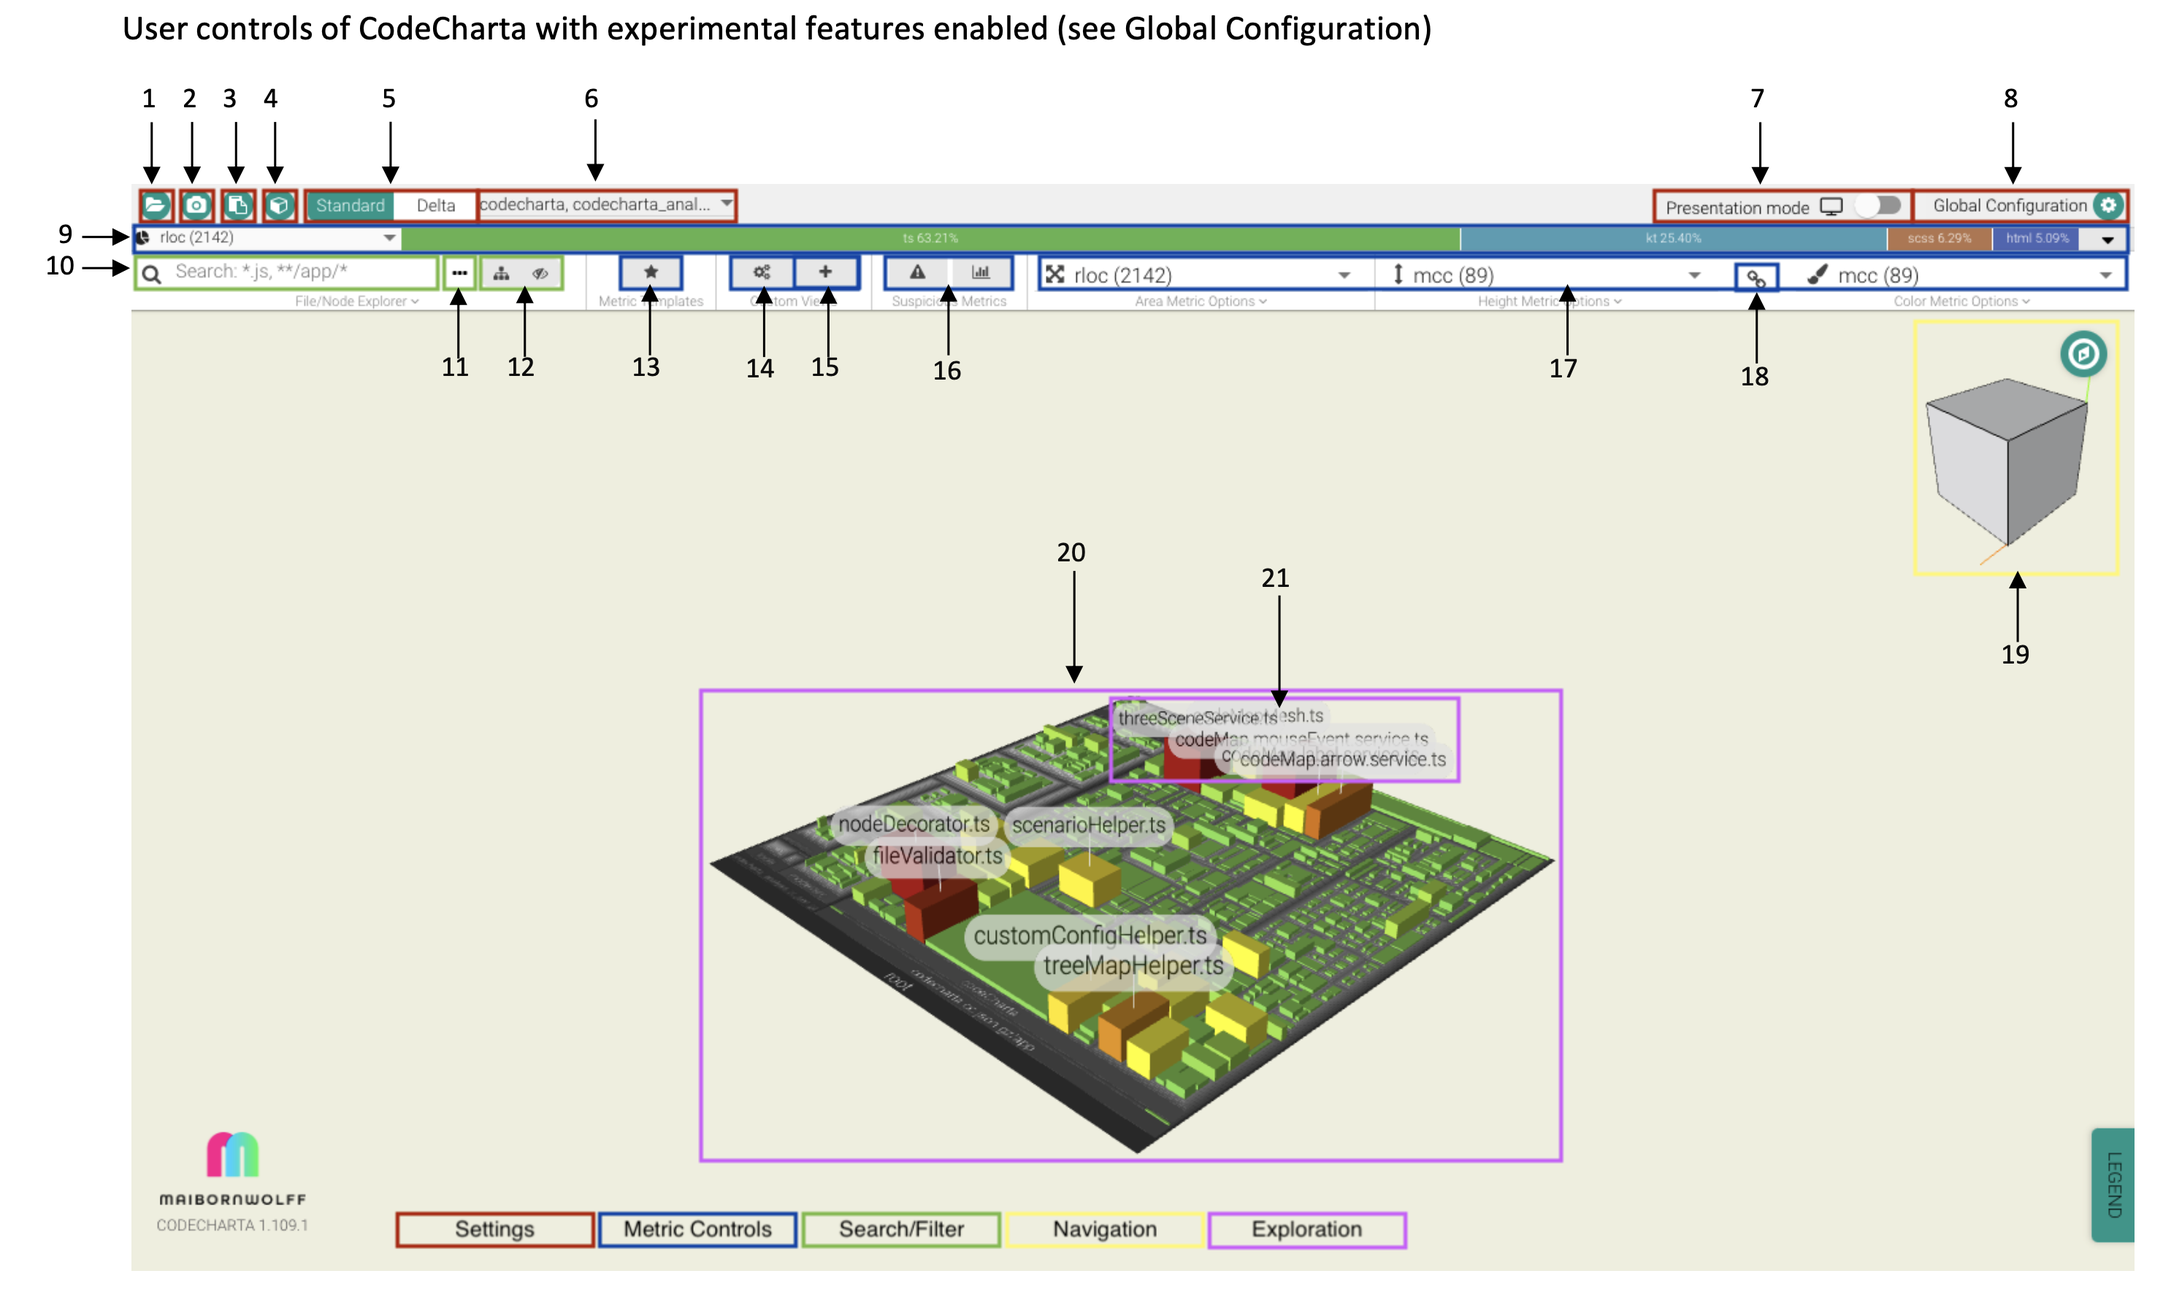
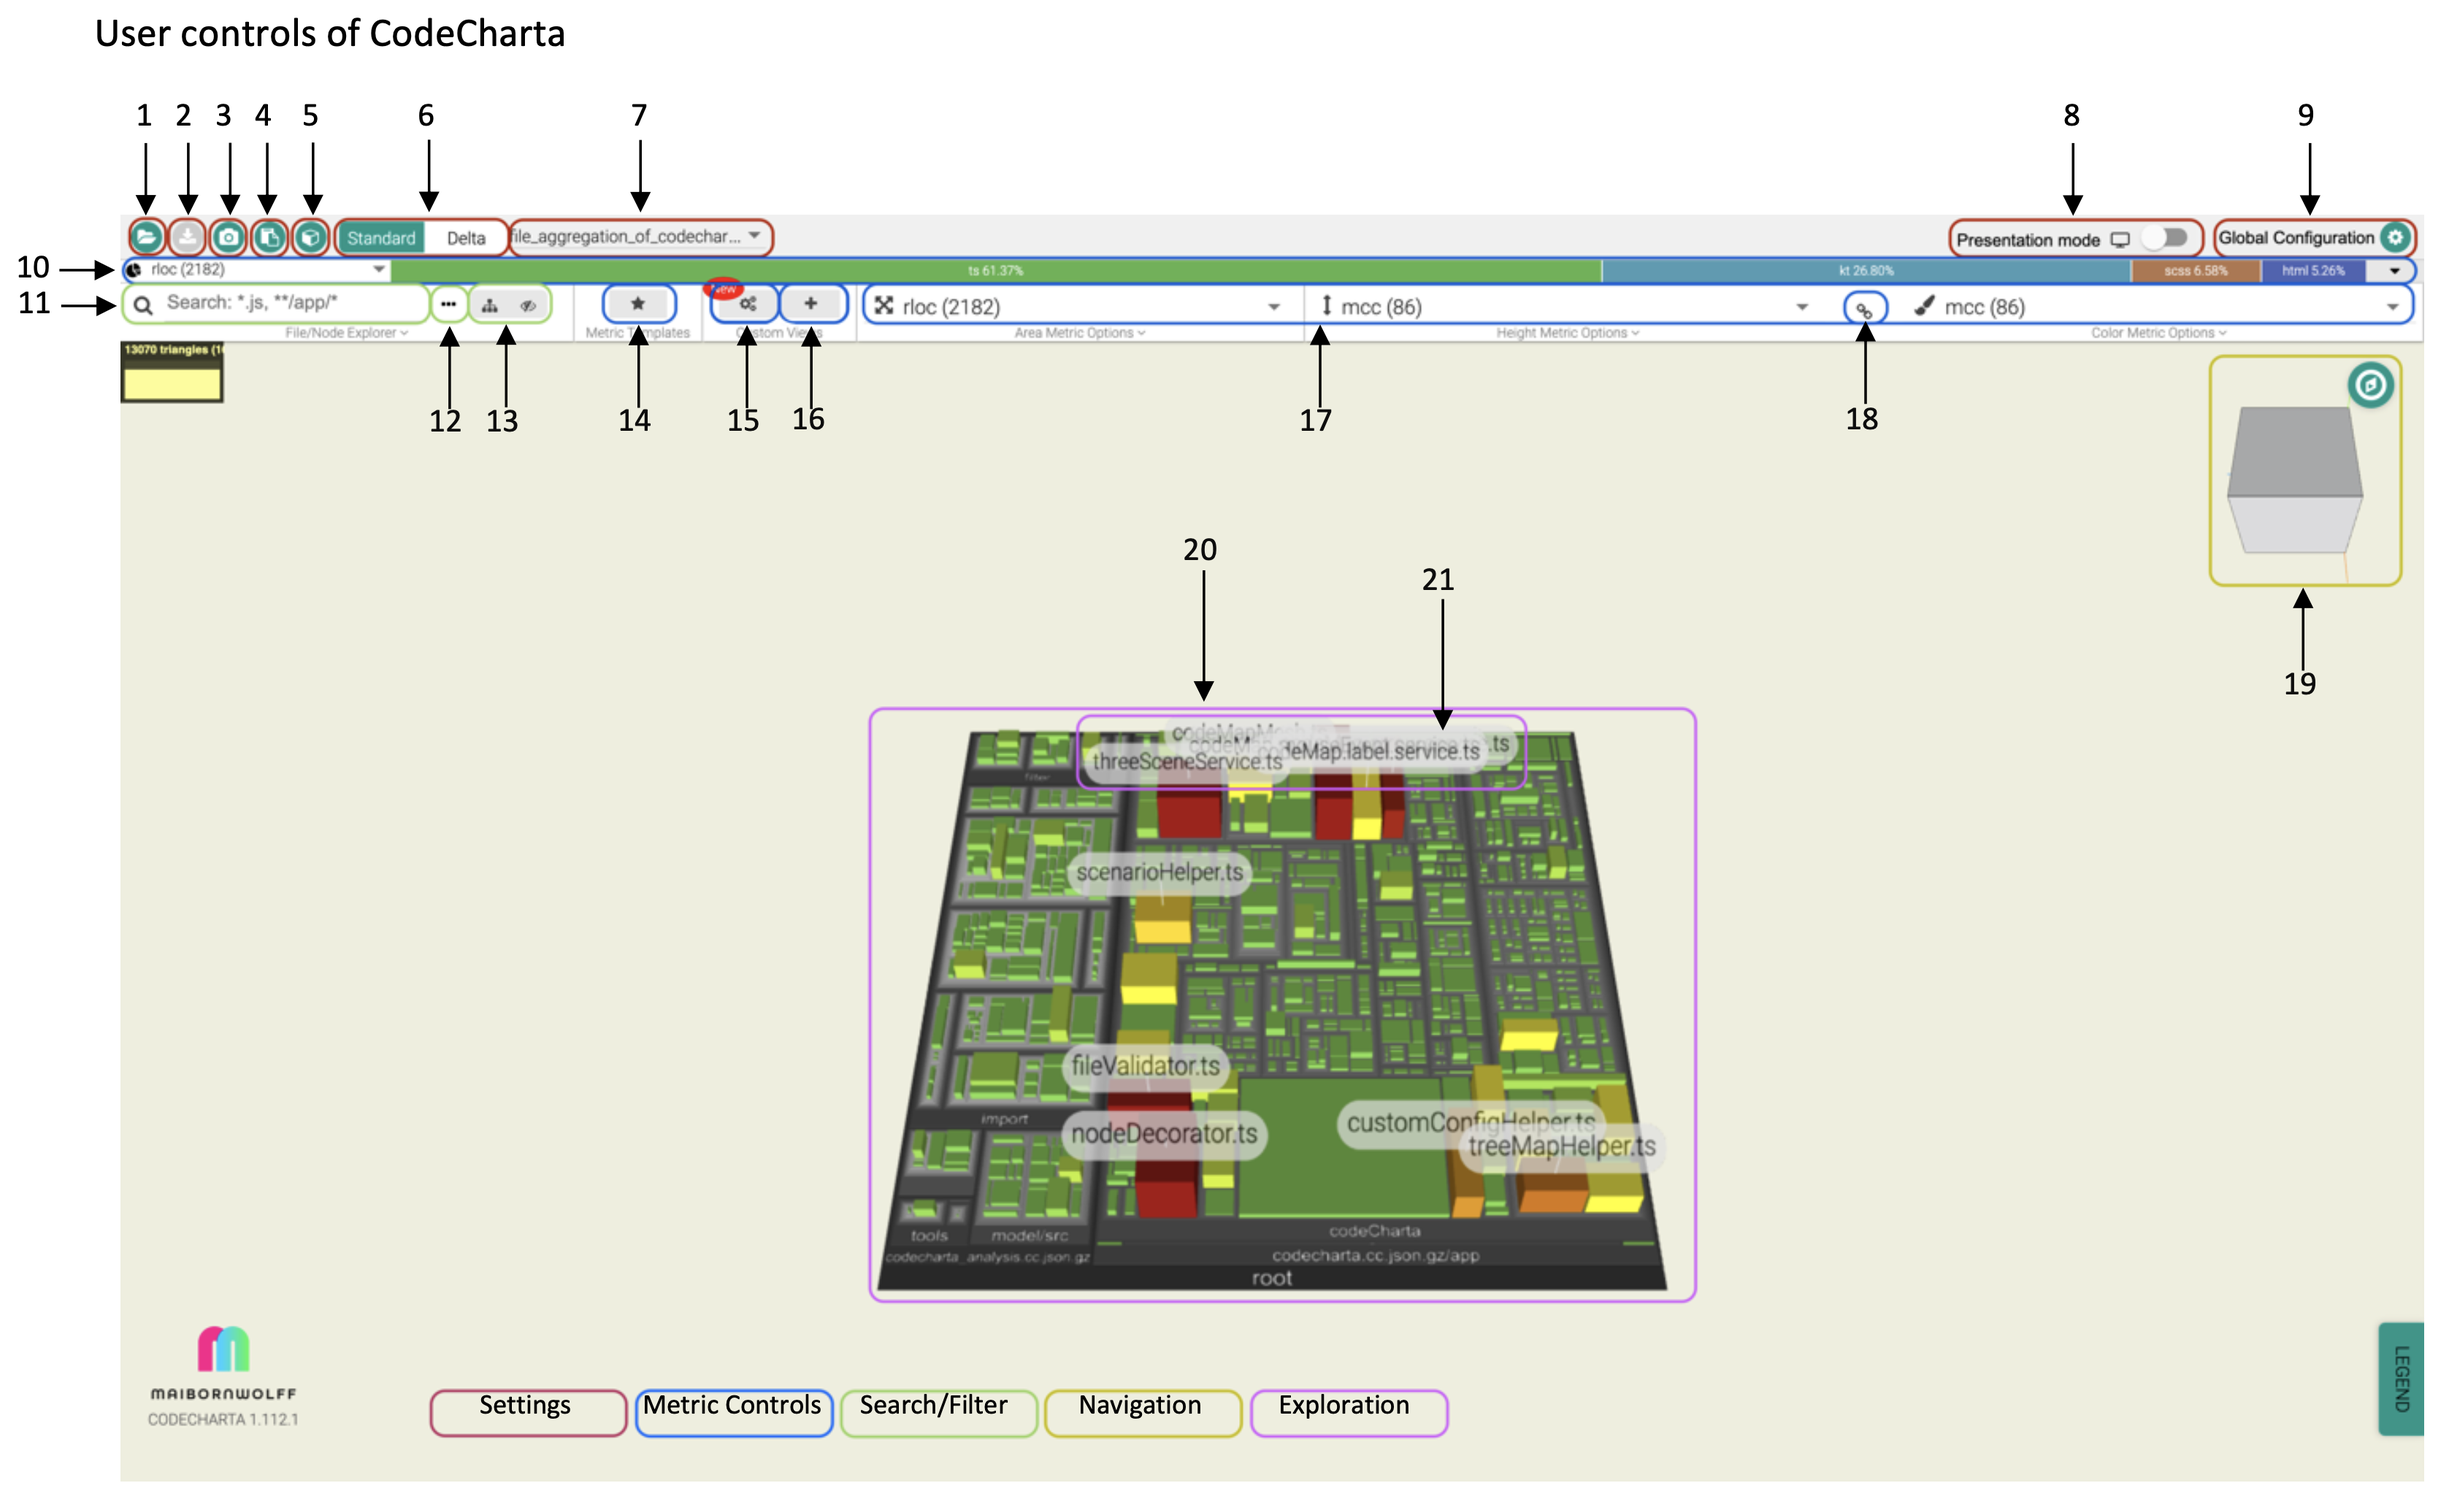
Update user control screenshot and article, #3172

diff --git a/gh-pages/_docs/06-02-user-controls.md b/gh-pages/_docs/06-02-user-controls.md
@@ -15,21 +15,21 @@ The controls that are available to you are:
 | #   | Type            | Action                                                                                                                                                                                                                                                           |
 | --- | --------------- | ---------------------------------------------------------------------------------------------------------------------------------------------------------------------------------------------------------------------------------------------------------------- |
 | 1   | Settings        | Load cc.json map or multiple maps (_hold shift_).                                                                                                                                                                                                                |
-| 2   | Settings        | Export screenshot as a file.                                                                                                                                                                                                                                     |
-| 3   | Settings        | Copy the names of files with highest metric values to clipboard.                                                                                                                                                                                                 |
-| 4   | Settings        | Download model as stl-file for 3D-printing.                                                                                                                                                                                                                      |
-| 5   | Settings        | Switch between showing maps in **standard mode** or seeing the **delta** between two maps, provided you have loaded multiple maps.                                                                                                                               |
-| 6   | Settings        | Select the map being shown.                                                                                                                                                                                                                                      |
-| 7   | Settings        | Turn on/off **presentation mode**. Beneficial when using a projector.                                                                                                                                                                                            |
-| 8   | Settings        | Global settings like background color map layout, quality and experimental features.                                                                                                                                                                             |
-| 9   | Metric Controls | The **distribution bar** shows the distribution of file extensions for a metric.                                                                                                                                                                                 |
-| 10  | Search/Filter   | Search for buildings [.gitignore style](https://git-scm.com/docs/gitignore).                                                                                                                                                                                     |
-| 11  | Search/Filter   | Hide/exclude the buildings from the search result. **Hidden** buildings are flattened in the map, **excluded** buildings are no longer visible. Useful if you have lots of vendor code in your map.                                                              |
-| 12  | Search/Filter   | Switch between the treeview or see the hidden and excluded buildings. The latter menus can be used to restore these buildings again.                                                                                                                             |
-| 13  | Metric Controls | Select a scenario, which changes multiple metrics at once.                                                                                                                                                                                                       |
-| 14  | Metric Controls | Save, load and manage individual configurations of the selected map.                                                                                                                                                                                             |
-| 15  | Metric Controls | Add the current view of the map as a custom configuration.                                                                                                                                                                                                       |
-| 16  | Metric Controls | Assess suspicious metric values and the risk profile of the selected map.                                                                                                                                                                                        |
+| 2   | Settings        | Download the current map as a JSON-file. **Deprecation Warning!** This feature will soon be removed. It is already replaced by the controls nr. 15 and 16.                                                                                                       |
+| 3   | Settings        | Export screenshot as a file.                                                                                                                                                                                                                                     |
+| 4   | Settings        | Copy the names of files with highest metric values to clipboard.                                                                                                                                                                                                 |
+| 5   | Settings        | Download model as stl-file for 3D-printing.                                                                                                                                                                                                                      |
+| 6   | Settings        | Switch between showing maps in **standard mode** or seeing the **delta** between two maps, provided you have loaded multiple maps.                                                                                                                               |
+| 7   | Settings        | Select the map being shown.                                                                                                                                                                                                                                      |
+| 8   | Settings        | Turn on/off **presentation mode**. Beneficial when using a projector.                                                                                                                                                                                            |
+| 9   | Settings        | Global settings like background color map layout, quality and experimental features.                                                                                                                                                                             |
+| 10  | Metric Controls | The **distribution bar** shows the distribution of file extensions for a metric.                                                                                                                                                                                 |
+| 11  | Search/Filter   | Search for buildings [.gitignore style](https://git-scm.com/docs/gitignore).                                                                                                                                                                                     |
+| 12  | Search/Filter   | Hide/exclude the buildings from the search result. **Hidden** buildings are flattened in the map, **excluded** buildings are no longer visible. Useful if you have lots of vendor code in your map.                                                              |
+| 13  | Search/Filter   | Switch between the treeview or see the hidden and excluded buildings. The latter menus can be used to restore these buildings again.                                                                                                                             |
+| 14  | Metric Controls | Select a scenario, which changes multiple metrics at once.                                                                                                                                                                                                       |
+| 15  | Metric Controls | Save, load and manage individual configurations of the selected map.                                                                                                                                                                                             |
+| 16  | Metric Controls | Add the current view of the map as a custom configuration.                                                                                                                                                                                                       |
 | 17  | Metric Controls | Use the **metric bar** to select a metrics per building area, height and color. Click on the arrow to change metric details such as color range. If your map has the right data, you can also display edges between buildings and change the number of previews. |
 | 18  | Metric Controls | Link height and color metric to be the same metric.                                                                                                                                                                                                              |
 | 19  | Navigation      | Use the Viewcube to quickly change the camera perspective or reset the view by clicking the compass icon.                                                                                                                                                        |
